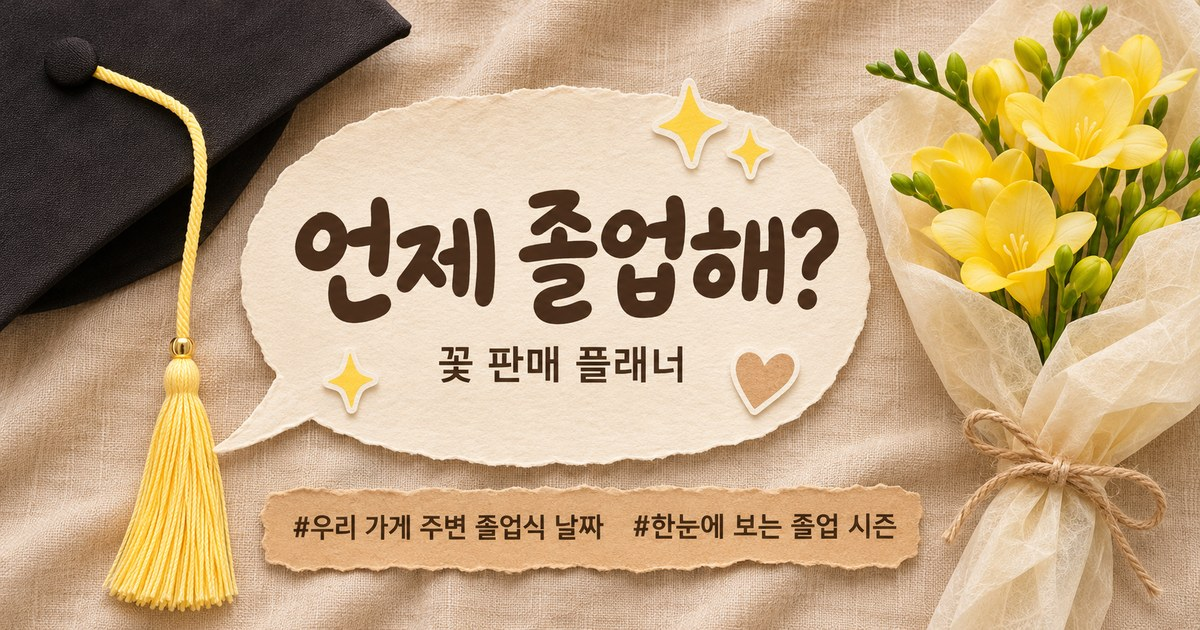
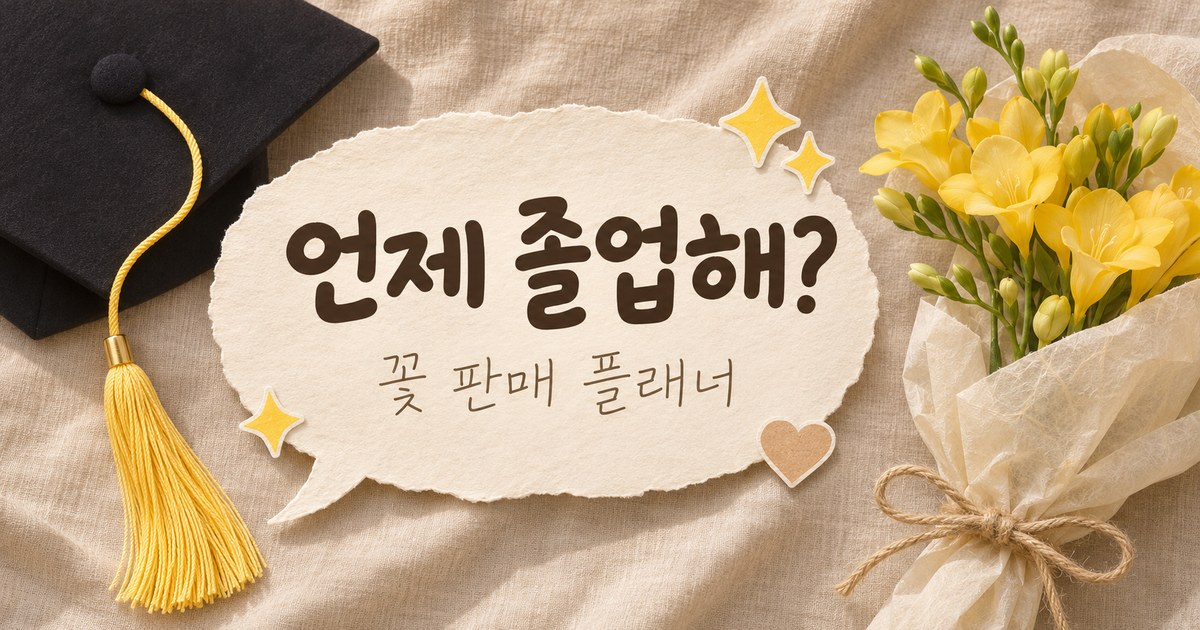
미리보기 다듬기: D-day 표기 복귀·오늘 배지, 담기(크라프트)/찾기(먹색) 색 역할 복원, 개수 문구·정렬 ▾, 학생 수 출처를 아래로, 새 공유 이미지
Claude-Session: https://claude.ai/code/session_01RUfDngG5q3TgRBj39mNToG

diff --git a/preview.html b/preview.html
@@ -468,11 +468,12 @@ details.other summary{padding:8px 0}
 
 .links.four a,.links.four button{height:var(--hs);line-height:1}
 @media (min-width:480px){.links.four{grid-template-columns:repeat(4,1fr)}}
+#sort .caret{font-size:11px;margin-left:2px;opacity:.7}
 
 /* ===== 미리보기: 빈티지 압화 다꾸 (꽃시세 사이트와 같은 계열) ===== */
 :root{--bg:#F6F1E7;--card:#FFFFFF;--paper:#FFFDF8;--line:#E2D7C5;--dot:#D9CEBD;--ink:#3A3128;--ink2:#8C7B66;--ink3:#9A8B78;
  --kraft:#C9A77C;--kraft-ink:#3A2A1A;--tape:rgba(232,214,170,.75);--yellow:#F6DE9B;--yellow-ink:#7A5410;--beige:#EFE7DA;
- --brand:#3A3128;--brand-d:#2a231c;--brand-soft:#EFE7DA;--rose:#3A3128;--rose-soft:#EFE7DA;--amber:#7A5410;--amber-soft:#F6DE9B;--muted:#F3ECE0}
+ --brand:#7A5A34;--brand-d:#5E4426;--brand-soft:#F1E6D3;--rose:#3A3128;--rose-soft:#EFE7DA;--amber:#7A5410;--amber-soft:#F6DE9B;--muted:#F3ECE0}
 body{background:var(--bg);color:var(--ink)}
 /* 제목 영역 */
 .hero{display:flex;align-items:flex-start;justify-content:space-between;gap:10px;padding:18px 0 12px;min-height:150px;max-height:170px}
@@ -524,10 +525,23 @@ body{background:var(--bg);color:var(--ink)}
 .card.row .add.alt{border-style:dashed}
 #mapcard .card.row{background:#fff;border:1px solid var(--line);border-radius:10px;padding:12px}
 .promo{background:#fff;border:1px dashed var(--line);border-radius:10px;margin:8px 0}
+/* 색 역할 되살리기: 크라프트 = 담기·내 일정 / 먹색 = 찾기·필터 / 베이지·회색 = 정보 / 노랑 = 14일 안 */
+.card.row .add{background:var(--kraft);color:var(--kraft-ink);border:0;font-weight:700}
+.card.row .add.done{background:#fff;color:var(--brand);border:1.5px solid var(--kraft)}
+.card.row .add[data-open]:not(.done){background:#fff;color:var(--ink);border:1.5px dashed var(--ink3)}
+[data-sheet-toggle],[data-save-candidate],[data-manual]:not(.soft),[data-ask-save],[data-go]{background:var(--kraft);color:var(--kraft-ink)}
+[data-sheet-toggle].soft,[data-manual].soft,.btn.soft{background:var(--brand-soft);color:var(--brand)}
+.search input:focus,.placebox input:focus{border-color:var(--ink)}
+.shop.on{border-color:var(--ink);background:#fff}
+.shop-dot{border-color:var(--ink)}
+.bdg.today{background:var(--ink);color:#fff}
+.bdg.past{background:none;color:var(--ink3);border:1px solid var(--line);font-weight:600}
+#sort{color:var(--ink)}
 /* 내 일정 */
 .scard,.plansum,.backup{background:#fff;border-color:var(--line);border-radius:10px}
-.need{background:var(--ink);border-radius:10px}
-.need .pills button[aria-pressed=true]{background:var(--yellow);color:var(--yellow-ink)}
+.need{background:var(--kraft);color:var(--kraft-ink);border-radius:10px}
+.need .pills button{background:#ffffff99;color:var(--kraft-ink);border-color:transparent}
+.need .pills button[aria-pressed=true]{background:var(--kraft-ink);color:#fff}
 .group h3 small,.group h3 small.far,.c-date .dd{color:var(--ink2)}
 .emptyimg{display:block;height:130px;width:auto;margin:0 auto 12px;filter:drop-shadow(0 2px 3px #3a312822)}
 /* 시트 */
@@ -538,7 +552,7 @@ body{background:var(--bg);color:var(--ink)}
 .tabbar{background:#FFFDF8;backdrop-filter:none;-webkit-backdrop-filter:none;border-top:1px solid var(--line)}
 .tabbar button,.tabbar .tab-shop{color:var(--ink3);font-weight:500}
 .tabbar button[aria-selected=true]{color:var(--ink);font-weight:700}
-#dot{background:var(--yellow);color:var(--yellow-ink)}
+#dot{background:var(--kraft);color:var(--kraft-ink)}
 .toast{background:var(--ink)}
 .toast button{color:var(--yellow)}
 .card.row .dcol{grid-column:1;grid-row:1}
@@ -716,7 +730,7 @@ function rangeOK(s){   // 졸업식 기간 조건 (학교 찾기·내 주변 공
 const toDate=d=>new Date(+d.slice(0,4),+d.slice(4,6)-1,+d.slice(6,8));
 const fmt=d=>{if(!/^\d{8}$/.test(d||''))return '날짜 미공개';const x=toDate(d);return (x.getMonth()+1)+'월 '+x.getDate()+'일 ('+DOW[x.getDay()]+')'};
 const fmtY=d=>d.slice(0,4)+'.'+d.slice(4,6)+'.'+d.slice(6,8);
-function dday(d){const t=new Date();t.setHours(0,0,0,0);const n=Math.round((toDate(d)-t)/864e5);return n<0?['지남',true]:n===0?['오늘',false]:[n+'일 남음',n>14]}   // 14일 안만 강조
+function dday(d){const t=new Date();t.setHours(0,0,0,0);const n=Math.round((toDate(d)-t)/864e5);return n<0?['지남',true]:n===0?['오늘',false]:['D-'+n,n>14]}   // 14일 안만 강조
 function stText(s){
   if(s.status==='univ_confirmed')return['학교 일정 확인','ok'];
   if(isUniv(s))return['학위수여식 날짜 직접 입력','muted'];
@@ -807,7 +821,8 @@ function cardHtml(s){
   if(ok){
     const d=s.dates[0],dt=new Date(+d.slice(0,4),+d.slice(4,6)-1,+d.slice(6,8)),[dd,far]=dday(d),on=!!find(s.id,d);
     dateCol=`<div class="dcol"><span class="dm">${+d.slice(4,6)}월</span><b class="dd2">${+d.slice(6,8)}</b><span class="dw">${WD[dt.getDay()]}</span></div>`;
-    badge=`<span class="bdg ${far?'':'soon'}">${dd}</span>${suspect(s)?'<span class="bdg dash">날짜 확인 필요</span>':''}`;
+    const n0=Math.round((dt-new Date(new Date().toDateString()))/864e5);
+    badge=`<span class="bdg ${n0<0?'past':n0===0?'today':far?'':'soon'}">${n0===0?'오늘 졸업식':dd}</span>${suspect(s)?'<span class="bdg dash">날짜 확인 필요</span>':''}`;
     btn=`<button class="add ${on?'done':''}" data-add="${esc(s.id)}" aria-pressed="${on}">${on?'✓ 담음':'+ 담기'}</button>`;
   }else{
     const n=anySaved(s.id).length;
@@ -824,8 +839,8 @@ function cardHtml(s){
 function render(reset=true){
   if(reset){st.list=filtered();st.shown=PAGE}
   const L=st.list,q=$('q').value.trim();
-  $('rc').innerHTML=`<span><b>${L.length.toLocaleString('ko-KR')}</b>곳${LOC&&q?' · 전국에서 검색':''}${st.status==='confirmed'?' · 날짜 나온 곳':''}</span>${LOC&&!q?`<button type="button" class="rchip" data-openf aria-label="거리 바꾸기">반경 ${RADIUS}km <span aria-hidden="true">▾</span></button>`:''}`;
-  $('sort').textContent=SORT_NAME[st.sort]||'빠른 날짜순';
+  $('rc').innerHTML=`<span>${q&&LOC?'전국에서 찾은 ':''}${st.status==='confirmed'?'날짜 나온 학교':st.status==='pending'?'날짜 확인이 필요한 학교':'학교'} <b>${L.length.toLocaleString('ko-KR')}</b>곳</span>${LOC&&!q?`<button type="button" class="rchip" data-openf aria-label="거리 바꾸기">반경 ${RADIUS}km <span aria-hidden="true">▾</span></button>`:''}`;
+  $('sort').innerHTML=`${SORT_NAME[st.sort]||'빠른 날짜순'} <span class="caret" aria-hidden="true">▾</span>`;$('sort').setAttribute('aria-label','정렬 바꾸기: '+(SORT_NAME[st.sort]||'빠른 날짜순'));
   const nextR=[1,2,3,5,10,20].find(r=>r>RADIUS),wider=LOC&&nextR?`<button class="btn sm" type="button" data-wider style="margin:14px auto 0">${nextR}km로 넓혀 보기</button>`:'';
   $('list').innerHTML=L.slice(0,st.shown).map((x,i)=>cardHtml(x)+(i===4?promoHtml('list'):'')).join('')||
    `<div class="empty"><span class="big">🔍</span>조건에 맞는 학교가 없어요.<br>${LOC&&!q?`${RADIUS}km 안에는 없어요. 거리를 넓히거나 필터를 바꿔 보세요.`:st.status==='confirmed'?'필터에서 ‘졸업식 날짜: 전체’로 바꾸면 날짜가 아직 안 나온 학교도 보여요.':'검색어나 필터를 바꿔 보세요.'}${wider}</div>`;
@@ -900,7 +915,7 @@ function openSheet(id,keep){
   const mineHtml=mine.length?`<div class="sec"><h4>담아둔 날짜</h4>${mine.map(r=>`<div style="display:flex;justify-content:space-between;align-items:center;padding:8px 0"><b>${fmt(r.date)}</b><button class="btn sm danger" data-rm="${esc(r.date)}">빼기</button></div>`).join('')}</div>`:'';
   $('sheet').innerHTML=`<button class="sheet-x" type="button" data-close aria-label="닫기">✕</button><div class="grab"></div>
     <div class="meta"><span class="badge">${esc(s.kind)}</span><span>${esc(s.region)}${isUniv(s)?'':' · '+esc(s.coedu||'')}</span></div>
-    <h2>${esc(s.name)}</h2><div class="addr">${esc(s.address)}</div>${sizeLine(s)}${s.size&&s.size.students?'<div class="src">학생 수: 교육부 학교알리미 2026년 공시</div>':''}
+    <h2>${esc(s.name)}</h2><div class="addr">${esc(s.address)}</div>${sizeLine(s)}
     <span class="pill ${tone==='ok'?'':tone}">${esc(label)}${isOk(s)&&s.checked?` · ${esc(s.checked.slice(5).replace('-','/'))} 확인`:''}</span>
     ${body}${mineHtml}
     <div class="sec"><h4>학교 위치 · 정보</h4>
@@ -911,7 +926,7 @@ function openSheet(id,keep){
     </div>
     ${loc&&KAKAO_KEY?`<div id="kwrap" hidden><div id="kview" class="kview"></div><p class="hint" id="khint" style="margin-top:6px"></p></div>`:''}
     ${site&&s.siteWarn?`<p class="hint" style="margin:8px 2px 0">학교 홈페이지가 요즘 잘 안 열려요. 안 열리면 <a href="${esc(search)}" target="_blank" rel="noopener noreferrer">카카오맵에서 학교 검색</a></p>`:''}
-    <p class="notice">※ 목록에 있다고 해서 판매가 허용되는 장소는 아니에요. 판매 가능 여부는 직접 확인해 주세요. 지도 좌표는 출입구와 다를 수 있어요.</p></div>`;
+    <p class="notice">※ 목록에 있다고 해서 판매가 허용되는 장소는 아니에요. 판매 가능 여부는 직접 확인해 주세요. 지도 좌표는 출입구와 다를 수 있어요.${s.size&&s.size.students?' 학생 수는 교육부 학교알리미 2026년 공시 자료예요.':''}</p></div>`;
   $('toast').classList.remove('on');$('sheet').classList.add('on');$('scrim').classList.add('on');document.body.style.overflow='hidden';
   if(!keep)$('sheet').scrollTop=0;
 }

diff --git a/index.html b/index.html
@@ -452,6 +452,7 @@ details.other summary{padding:8px 0}
 
 .links.four a,.links.four button{height:var(--hs);line-height:1}
 @media (min-width:480px){.links.four{grid-template-columns:repeat(4,1fr)}}
+#sort .caret{font-size:11px;margin-left:2px;opacity:.7}
 </style>
 <script src="libs/leaflet/leaflet.js"></script>
 <script src="config.js"></script>
@@ -726,8 +727,8 @@ function cardHtml(s){
 function render(reset=true){
   if(reset){st.list=filtered();st.shown=PAGE}
   const L=st.list,q=$('q').value.trim();
-  $('rc').innerHTML=`<span><b>${L.length.toLocaleString('ko-KR')}</b>곳${LOC&&q?' · 전국에서 검색':''}${st.status==='confirmed'?' · 날짜 나온 곳':''}</span>${LOC&&!q?`<button type="button" class="rchip" data-openf aria-label="거리 바꾸기">반경 ${RADIUS}km <span aria-hidden="true">▾</span></button>`:''}`;
-  $('sort').textContent=SORT_NAME[st.sort]||'빠른 날짜순';
+  $('rc').innerHTML=`<span>${q&&LOC?'전국에서 찾은 ':''}${st.status==='confirmed'?'날짜 나온 학교':st.status==='pending'?'날짜 확인이 필요한 학교':'학교'} <b>${L.length.toLocaleString('ko-KR')}</b>곳</span>${LOC&&!q?`<button type="button" class="rchip" data-openf aria-label="거리 바꾸기">반경 ${RADIUS}km <span aria-hidden="true">▾</span></button>`:''}`;
+  $('sort').innerHTML=`${SORT_NAME[st.sort]||'빠른 날짜순'} <span class="caret" aria-hidden="true">▾</span>`;$('sort').setAttribute('aria-label','정렬 바꾸기: '+(SORT_NAME[st.sort]||'빠른 날짜순'));
   const nextR=[1,2,3,5,10,20].find(r=>r>RADIUS),wider=LOC&&nextR?`<button class="btn sm" type="button" data-wider style="margin:14px auto 0">${nextR}km로 넓혀 보기</button>`:'';
   $('list').innerHTML=L.slice(0,st.shown).map((x,i)=>cardHtml(x)+(i===4?promoHtml('list'):'')).join('')||
    `<div class="empty"><span class="big">🔍</span>조건에 맞는 학교가 없어요.<br>${LOC&&!q?`${RADIUS}km 안에는 없어요. 거리를 넓히거나 필터를 바꿔 보세요.`:st.status==='confirmed'?'필터에서 ‘졸업식 날짜: 전체’로 바꾸면 날짜가 아직 안 나온 학교도 보여요.':'검색어나 필터를 바꿔 보세요.'}${wider}</div>`;
@@ -802,7 +803,7 @@ function openSheet(id,keep){
   const mineHtml=mine.length?`<div class="sec"><h4>담아둔 날짜</h4>${mine.map(r=>`<div style="display:flex;justify-content:space-between;align-items:center;padding:8px 0"><b>${fmt(r.date)}</b><button class="btn sm danger" data-rm="${esc(r.date)}">빼기</button></div>`).join('')}</div>`:'';
   $('sheet').innerHTML=`<button class="sheet-x" type="button" data-close aria-label="닫기">✕</button><div class="grab"></div>
     <div class="meta"><span class="badge">${esc(s.kind)}</span><span>${esc(s.region)}${isUniv(s)?'':' · '+esc(s.coedu||'')}</span></div>
-    <h2>${esc(s.name)}</h2><div class="addr">${esc(s.address)}</div>${sizeLine(s)}${s.size&&s.size.students?'<div class="src">학생 수: 교육부 학교알리미 2026년 공시</div>':''}
+    <h2>${esc(s.name)}</h2><div class="addr">${esc(s.address)}</div>${sizeLine(s)}
     <span class="pill ${tone==='ok'?'':tone}">${esc(label)}${isOk(s)&&s.checked?` · ${esc(s.checked.slice(5).replace('-','/'))} 확인`:''}</span>
     ${body}${mineHtml}
     <div class="sec"><h4>학교 위치 · 정보</h4>
@@ -813,7 +814,7 @@ function openSheet(id,keep){
     </div>
     ${loc&&KAKAO_KEY?`<div id="kwrap" hidden><div id="kview" class="kview"></div><p class="hint" id="khint" style="margin-top:6px"></p></div>`:''}
     ${site&&s.siteWarn?`<p class="hint" style="margin:8px 2px 0">학교 홈페이지가 요즘 잘 안 열려요. 안 열리면 <a href="${esc(search)}" target="_blank" rel="noopener noreferrer">카카오맵에서 학교 검색</a></p>`:''}
-    <p class="notice">※ 목록에 있다고 해서 판매가 허용되는 장소는 아니에요. 판매 가능 여부는 직접 확인해 주세요. 지도 좌표는 출입구와 다를 수 있어요.</p></div>`;
+    <p class="notice">※ 목록에 있다고 해서 판매가 허용되는 장소는 아니에요. 판매 가능 여부는 직접 확인해 주세요. 지도 좌표는 출입구와 다를 수 있어요.${s.size&&s.size.students?' 학생 수는 교육부 학교알리미 2026년 공시 자료예요.':''}</p></div>`;
   $('toast').classList.remove('on');$('sheet').classList.add('on');$('scrim').classList.add('on');document.body.style.overflow='hidden';
   if(!keep)$('sheet').scrollTop=0;
 }
